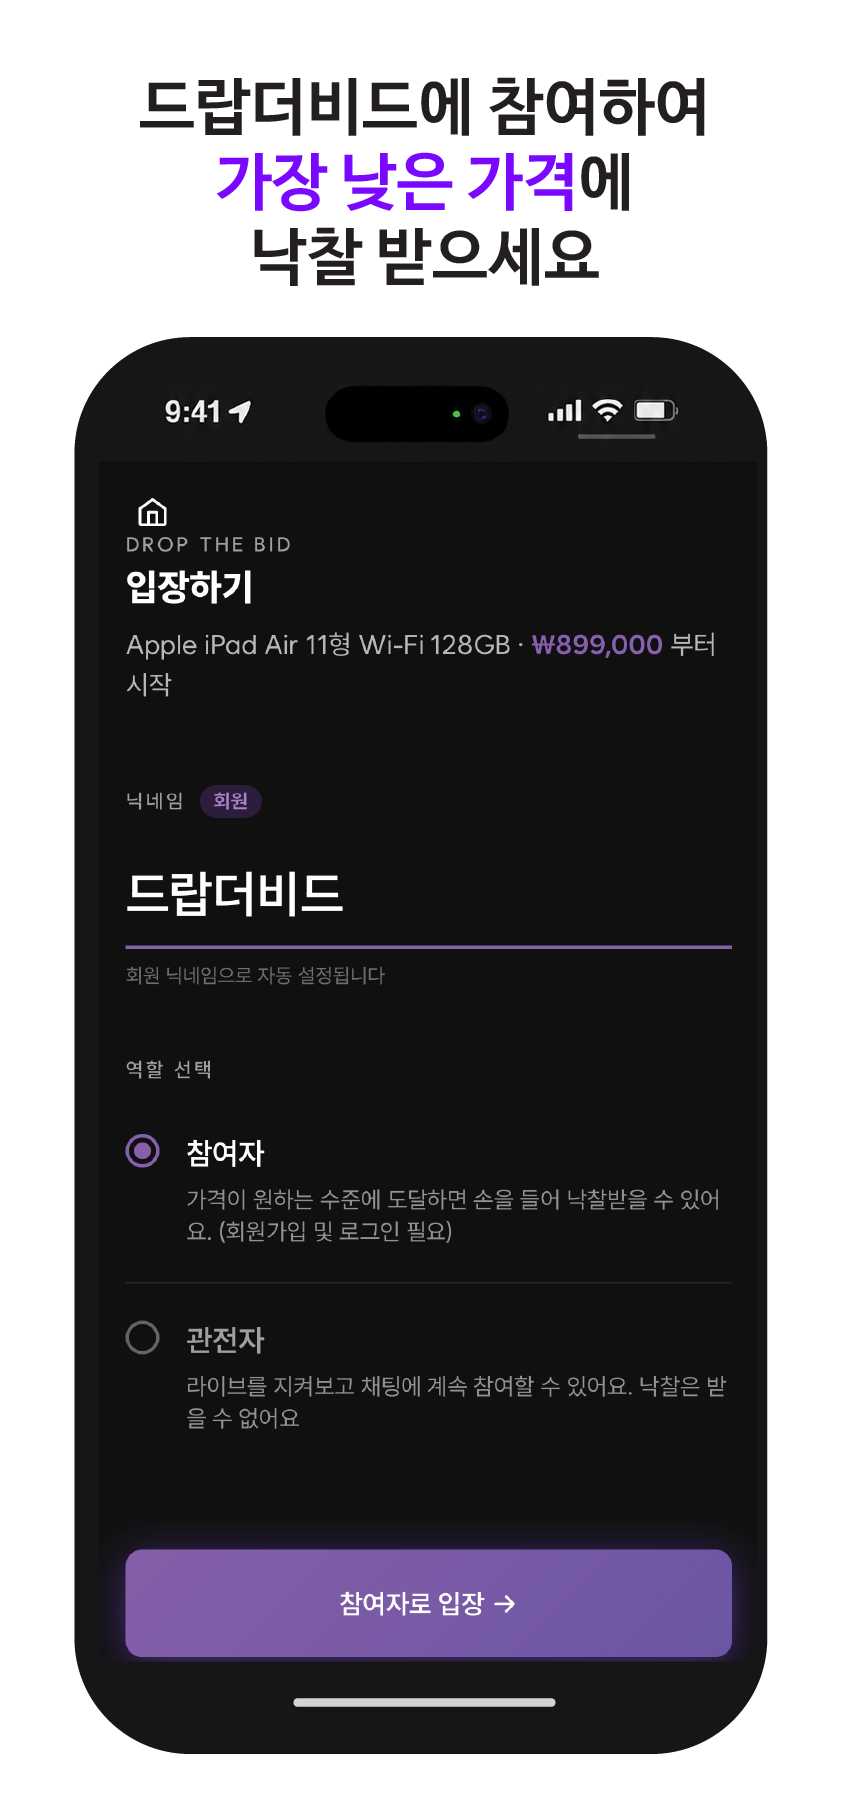
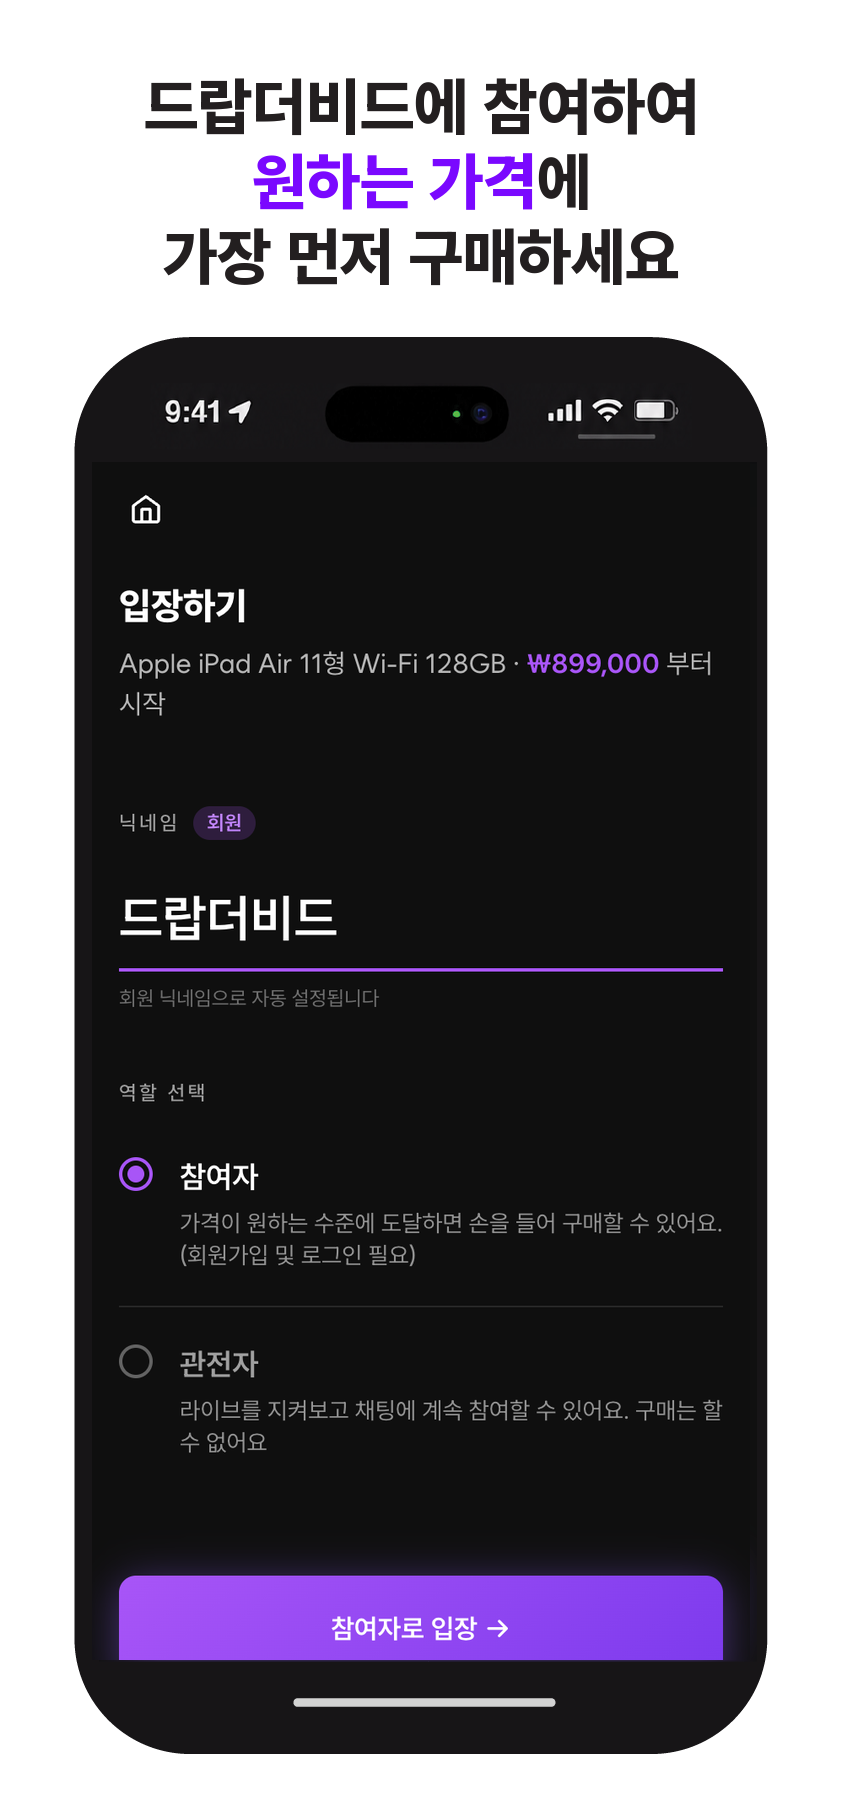
Regenerate how-to slides with drop/purchase screens

diff --git a/DTB_SESSION_SNAPSHOT.md b/DTB_SESSION_SNAPSHOT.md
@@ -1,30 +1,27 @@
 # DTB Session Snapshot
 
-Generated: 2026-11-09 15:14:04 +0900
+Generated: 2026-11-09 15:32:45 +0900
 
 ## Git
 
 ```text
 branch: preview/pg-readiness
-head: fff14f74f658e7a7b946c5b0449c6a5586c13fb0
+head: 8885f66f05761ae685a62e1e0942ac8df82d5f59
 
 [status]
+ M DTB_CURRENT_STATE.md
  M DTB_SESSION_SNAPSHOT.md
- M app/globals.css
- M app/join/layout.tsx
- M app/layout.tsx
- M app/page.tsx
- M app/practice/page.tsx
- M app/strategy/page.tsx
-D  public/gamepagevideo.mp4
-D  public/newmainimage.png
-RM public/og-image.jpg -> public/og-image-drop.jpg
- M tests/pgReadiness.test.ts
-?? app/components/StageBackdrop.tsx
-?? public/main.png
+ M "public/\354\204\244\353\252\2051.png"
+ M "public/\354\204\244\353\252\2052.png"
+ M "public/\354\204\244\353\252\2053.png"
+ M "public/\354\204\244\353\252\2054.png"
+ M "public/\354\204\244\353\252\2055.png"
+ M "public/\354\204\244\353\252\2056.png"
+ M "public/\354\204\244\353\252\2057.png"
 
 [recent commits]
-fff14f7 (HEAD -> preview/pg-readiness, origin/preview/pg-readiness) Prepare site for PG review: drop/purchase wording, legal pages, business footer
+8885f66 (HEAD -> preview/pg-readiness, origin/preview/pg-readiness) Replace auction artwork with drop-themed stage art
+fff14f7 Prepare site for PG review: drop/purchase wording, legal pages, business footer
 8741083 (origin/preview/m4a-payment-safety, preview/m4a-payment-safety) docs: M4 결제 안전성 작업 상태 체크포인트
 ed9c842 Merge remote-tracking branch 'origin/main' into preview/m4a-payment-safety
 8754020 (origin/main, origin/HEAD) 연속성 시스템 병합 후 저장소 체크포인트 문구 정리
@@ -33,24 +30,20 @@ f9c412e Add admin payment refund management
 3a74bdf Add durable payment cancellation ledger
 9e9116a Add payment reconciliation recheck flow
 40a5a13 Fix reconciliation payment recheck flow
-35701fb (main) Harden Toss payment confirmation
 ```
 
 ## Changed files vs HEAD
 
 ```text
+M	DTB_CURRENT_STATE.md
 M	DTB_SESSION_SNAPSHOT.md
-M	app/globals.css
-M	app/join/layout.tsx
-M	app/layout.tsx
-M	app/page.tsx
-M	app/practice/page.tsx
-M	app/strategy/page.tsx
-D	public/gamepagevideo.mp4
-D	public/newmainimage.png
-A	public/og-image-drop.jpg
-D	public/og-image.jpg
-M	tests/pgReadiness.test.ts
+M	"public/\354\204\244\353\252\2051.png"
+M	"public/\354\204\244\353\252\2052.png"
+M	"public/\354\204\244\353\252\2053.png"
+M	"public/\354\204\244\353\252\2054.png"
+M	"public/\354\204\244\353\252\2055.png"
+M	"public/\354\204\244\353\252\2056.png"
+M	"public/\354\204\244\353\252\2057.png"
 ```
 
 ## Environment variable names only

diff --git a/DTB_CURRENT_STATE.md b/DTB_CURRENT_STATE.md
@@ -117,8 +117,12 @@ Status owner: update at every meaningful development session
 - 회원가입의 (숨겨져 있던) 카드 입력 단계 삭제
 - 회귀 테스트: `tests/pgReadiness.test.ts`
 - 남은 일 (사용자):
-  - `help@dropthebid.com` 수신 불가 — dropthebid.com에 MX 레코드 없음 (DNS: 가비아). 메일 포워딩/메일 서비스 설정 필요
-  - 이미지 속 경매 표현 교체: `public/newmainimage.png`(AUCTION, 망치, BID NOW), `public/og-image.jpg`, `public/설명1~7.png`(낙찰 문구)
+  - `public/winner-animation.mp4`에 경매 요소가 있는지 확인
+- 완료 (2026-11-09):
+  - 홈 이미지 `public/main.png`(경매 요소 제거, 테두리 정리), 공유 이미지 `public/og-image-drop.jpg`(새 파일명으로 공유 캐시 회피)
+  - 게임/모의훈련 배경 영상 → `StageBackdrop`(main.png + 천천히 움직이는 효과). `newmainimage.png`, `gamepagevideo.mp4`, `og-image.jpg` 삭제
+  - 게임방법 슬라이드 `public/설명1~7.png` 재제작: 실제 화면을 백엔드 모킹으로 렌더링(운영 DB 접속 없음), 1번·6번 제목 변경
+  - `help@dropthebid.com` 수신: 가비아 DNS에 ImprovMX MX 2개 + SPF TXT 추가, Gmail 전달 확인 (Gmail 필터: 스팸 분류 안 함)
 
 ---
 
